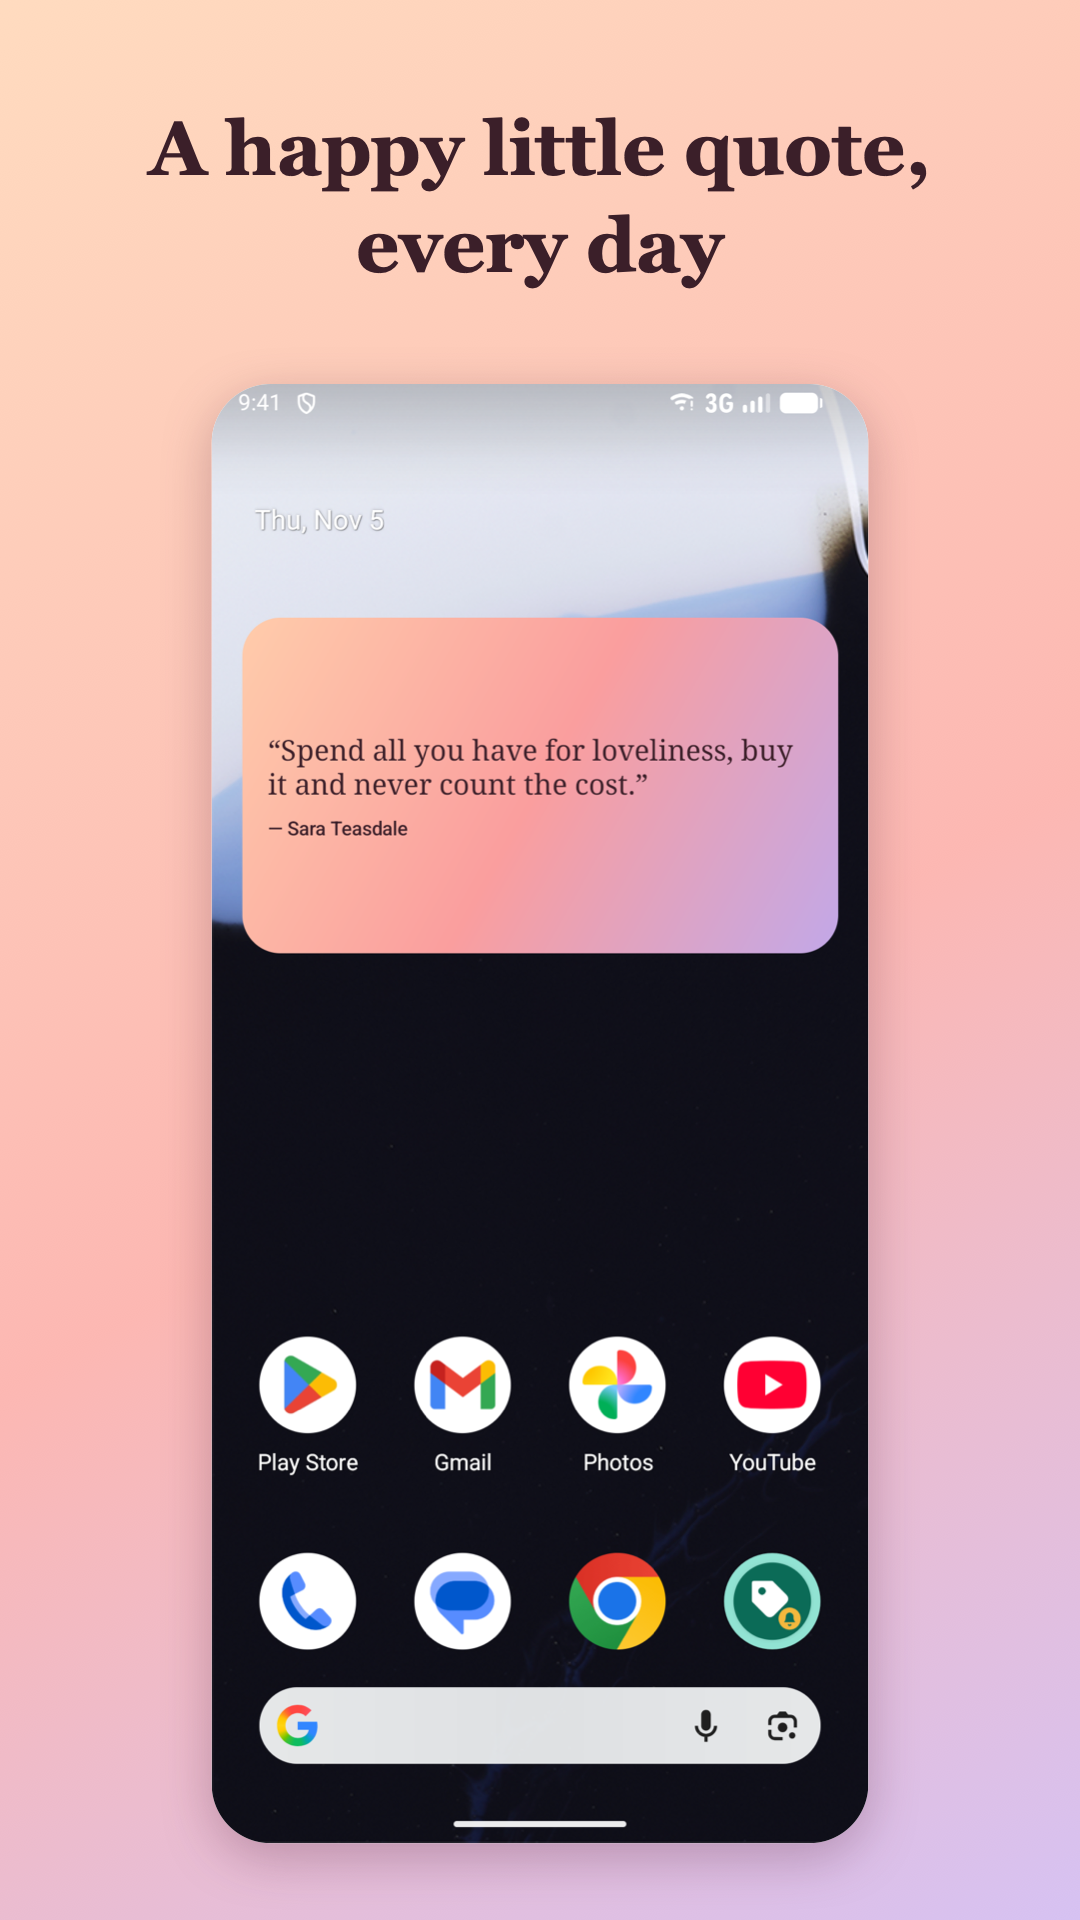
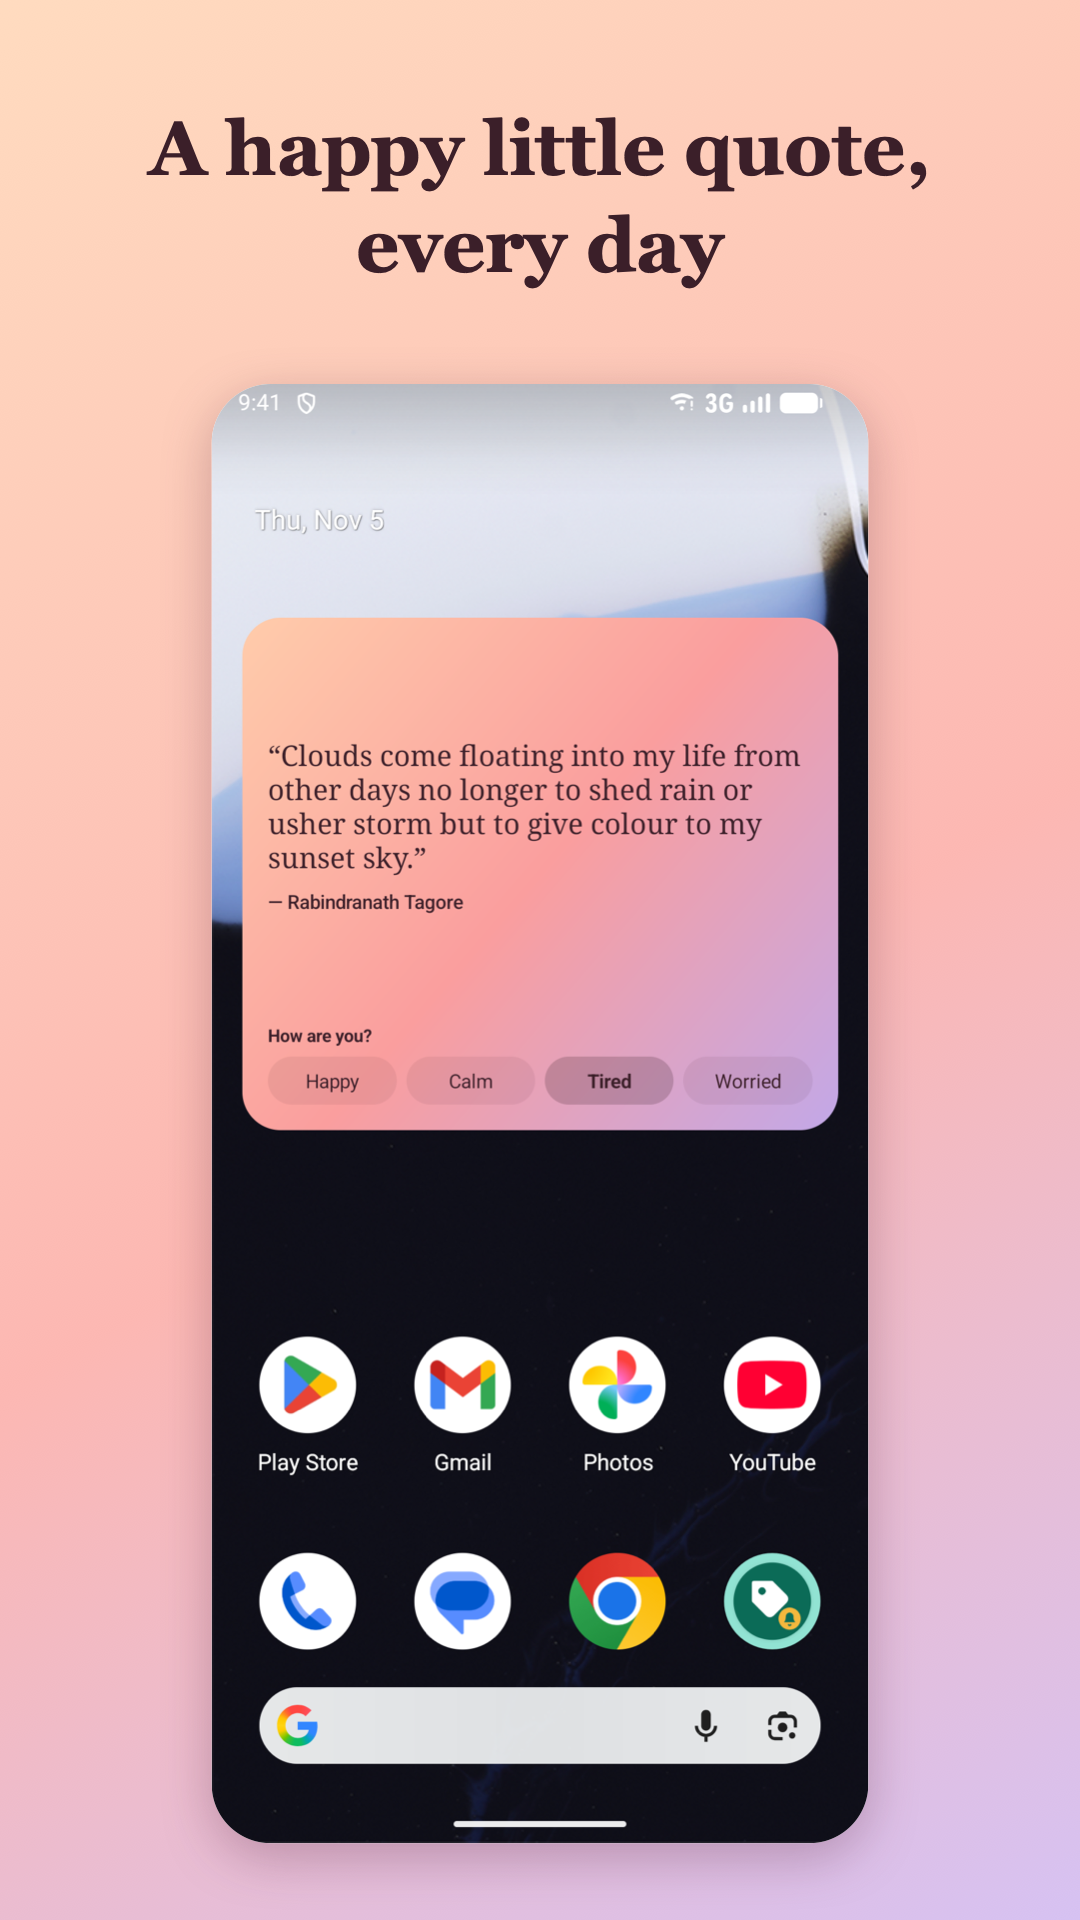
Retake store screenshots to show the mood check-in
- Six screens per store: home widgets (with mood buttons), the check-in,
  Today with "Picked for you", the three styles, My Quotes, Favourites
- New captions: "Tell it how you feel today", "A quote picked for your day"
- Android styles image uses the large widget so the mood buttons show

Changed region(s): [[0.2139, 0.3125, 0.7944, 0.5938]]

diff --git a/tools/make_store_images.swift b/tools/make_store_images.swift
@@ -1,7 +1,7 @@
 // Builds Sunnote's store images from raw simulator/emulator screenshots.
 // Usage: swift tools/make_store_images.swift <raw-screenshots-dir> <output-dir>
-// Expects in the raw dir: ios-{home,today,myquotes,favourites}.png, ios-home-{light,dark}.png,
-// and-{home,today,myquotes,favourites}.png, and-home-{light,dark}.png, and the icon at
+// Expects in the raw dir: ios-{home,checkin,today,myquotes,favourites}.png, ios-home-{light,dark}.png,
+// and-{home,checkin,today,myquotes,favourites}.png, and-home-{light,dark}.png, and the icon at
 // ios/QuoteApp/Assets.xcassets/AppIcon.appiconset/AppIcon.png (run from the repo root).
 import AppKit
 import CoreGraphics
@@ -114,20 +114,22 @@ func styles(_ crops: [CGImage], _ text: String, w: Int, h: Int, widthFraction: C
 // ---- iPhone 6.9-inch: 1320 x 2868 ----
 let iw = 1320, ih = 2868
 screen("ios-home.png", "A happy little quote, every day", w: iw, h: ih, out: "ios/1-home.png")
-screen("ios-today.png", "Words worth reading, from great writers", w: iw, h: ih, out: "ios/2-today.png")
+screen("ios-checkin.png", "Tell it how you feel today", w: iw, h: ih, out: "ios/2-check-in.png")
+screen("ios-today.png", "A quote picked for your day", w: iw, h: ih, out: "ios/3-today.png")
 let iSmall = ["ios-home.png", "ios-home-light.png", "ios-home-dark.png"].map { crop(load($0), x: 104, y: 295, w: 510, h: 510) }
-styles(iSmall, "Sunrise, Light or Dark", w: iw, h: ih, widthFraction: 0.40, out: "ios/3-styles.png")
-screen("ios-myquotes.png", "Add your own words", w: iw, h: ih, out: "ios/4-my-quotes.png")
-screen("ios-favourites.png", "Keep the ones you love", w: iw, h: ih, out: "ios/5-favourites.png")
+styles(iSmall, "Sunrise, Light or Dark", w: iw, h: ih, widthFraction: 0.40, out: "ios/4-styles.png")
+screen("ios-myquotes.png", "Add your own words", w: iw, h: ih, out: "ios/5-my-quotes.png")
+screen("ios-favourites.png", "Keep the ones you love", w: iw, h: ih, out: "ios/6-favourites.png")
 
 // ---- Google Play phone: 1080 x 1920 (Play allows at most 2:1) ----
 let aw = 1080, ah = 1920
 screen("and-home.png", "A happy little quote, every day", w: aw, h: ah, out: "android/1-home.png")
-screen("and-today.png", "Words worth reading, from great writers", w: aw, h: ah, out: "android/2-today.png")
-let aWide = ["and-home.png", "and-home-light.png", "and-home-dark.png"].map { crop(load($0), x: 64, y: 396, w: 952, h: 528) }
-styles(aWide, "Sunrise, Light or Dark", w: aw, h: ah, widthFraction: 0.62, out: "android/3-styles.png")
-screen("and-myquotes.png", "Add your own words", w: aw, h: ah, out: "android/4-my-quotes.png")
-screen("and-favourites.png", "Keep the ones you love", w: aw, h: ah, out: "android/5-favourites.png")
+screen("and-checkin.png", "Tell it how you feel today", w: aw, h: ah, out: "android/2-check-in.png")
+screen("and-today.png", "A quote picked for your day", w: aw, h: ah, out: "android/3-today.png")
+let aLarge = ["and-home.png", "and-home-light.png", "and-home-dark.png"].map { crop(load($0), x: 60, y: 398, w: 960, h: 822) }
+styles(aLarge, "Sunrise, Light or Dark", w: aw, h: ah, widthFraction: 0.40, out: "android/4-styles.png")
+screen("and-myquotes.png", "Add your own words", w: aw, h: ah, out: "android/5-my-quotes.png")
+screen("and-favourites.png", "Keep the ones you love", w: aw, h: ah, out: "android/6-favourites.png")
 
 // ---- Google Play feature graphic 1024 x 500 and 512 px icon ----
 let iconURL = URL(fileURLWithPath: "ios/QuoteApp/Assets.xcassets/AppIcon.appiconset/AppIcon.png")
